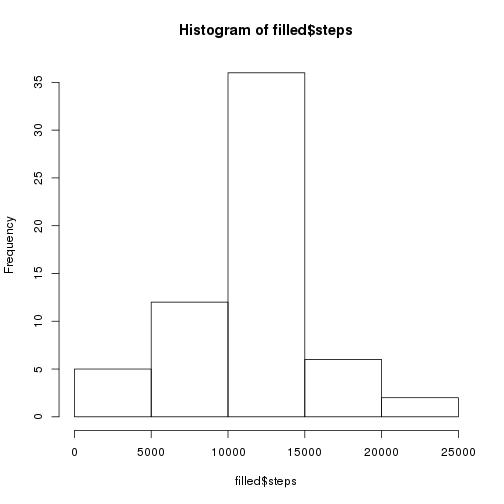
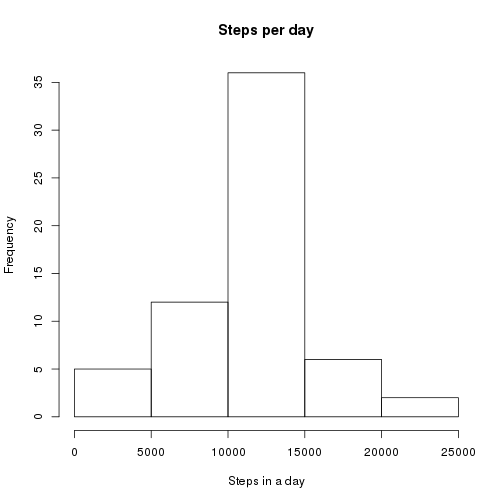
Fixes figure axis label.

Changed region(s): [[0.3571, 0.0298, 0.7143, 0.0893], [0.4464, 0.9226, 0.5952, 0.9821]]

diff --git a/PA1_template.html b/PA1_template.html
@@ -298,10 +298,10 @@ copy$steps[is.na(copy$steps)] &lt;- copy$avgsteps[is.na(copy$steps)]
 <p>Plot a histogram of the filled data.</p>
 
 <pre><code class="r">filled &lt;- aggregate(list(steps=copy$steps), by=list(day=copy$date), FUN=sum)
-hist(filled$steps)
+hist(filled$steps, main = &quot;Steps per day&quot;, xlab = &quot;Steps in a day&quot;)
 </code></pre>
 
[2 lines of base64/hex data omitted]
 
 <p>Mean number of steps taken per day:</p>
 

diff --git a/PA1_template.md b/PA1_template.md
@@ -124,7 +124,7 @@ Plot a histogram of the filled data.
 
 ```r
 filled <- aggregate(list(steps=copy$steps), by=list(day=copy$date), FUN=sum)
-hist(filled$steps)
+hist(filled$steps, main = "Steps per day", xlab = "Steps in a day")
 ```
 
 ![plot of chunk unnamed-chunk-12](figure/unnamed-chunk-12-1.png) 
